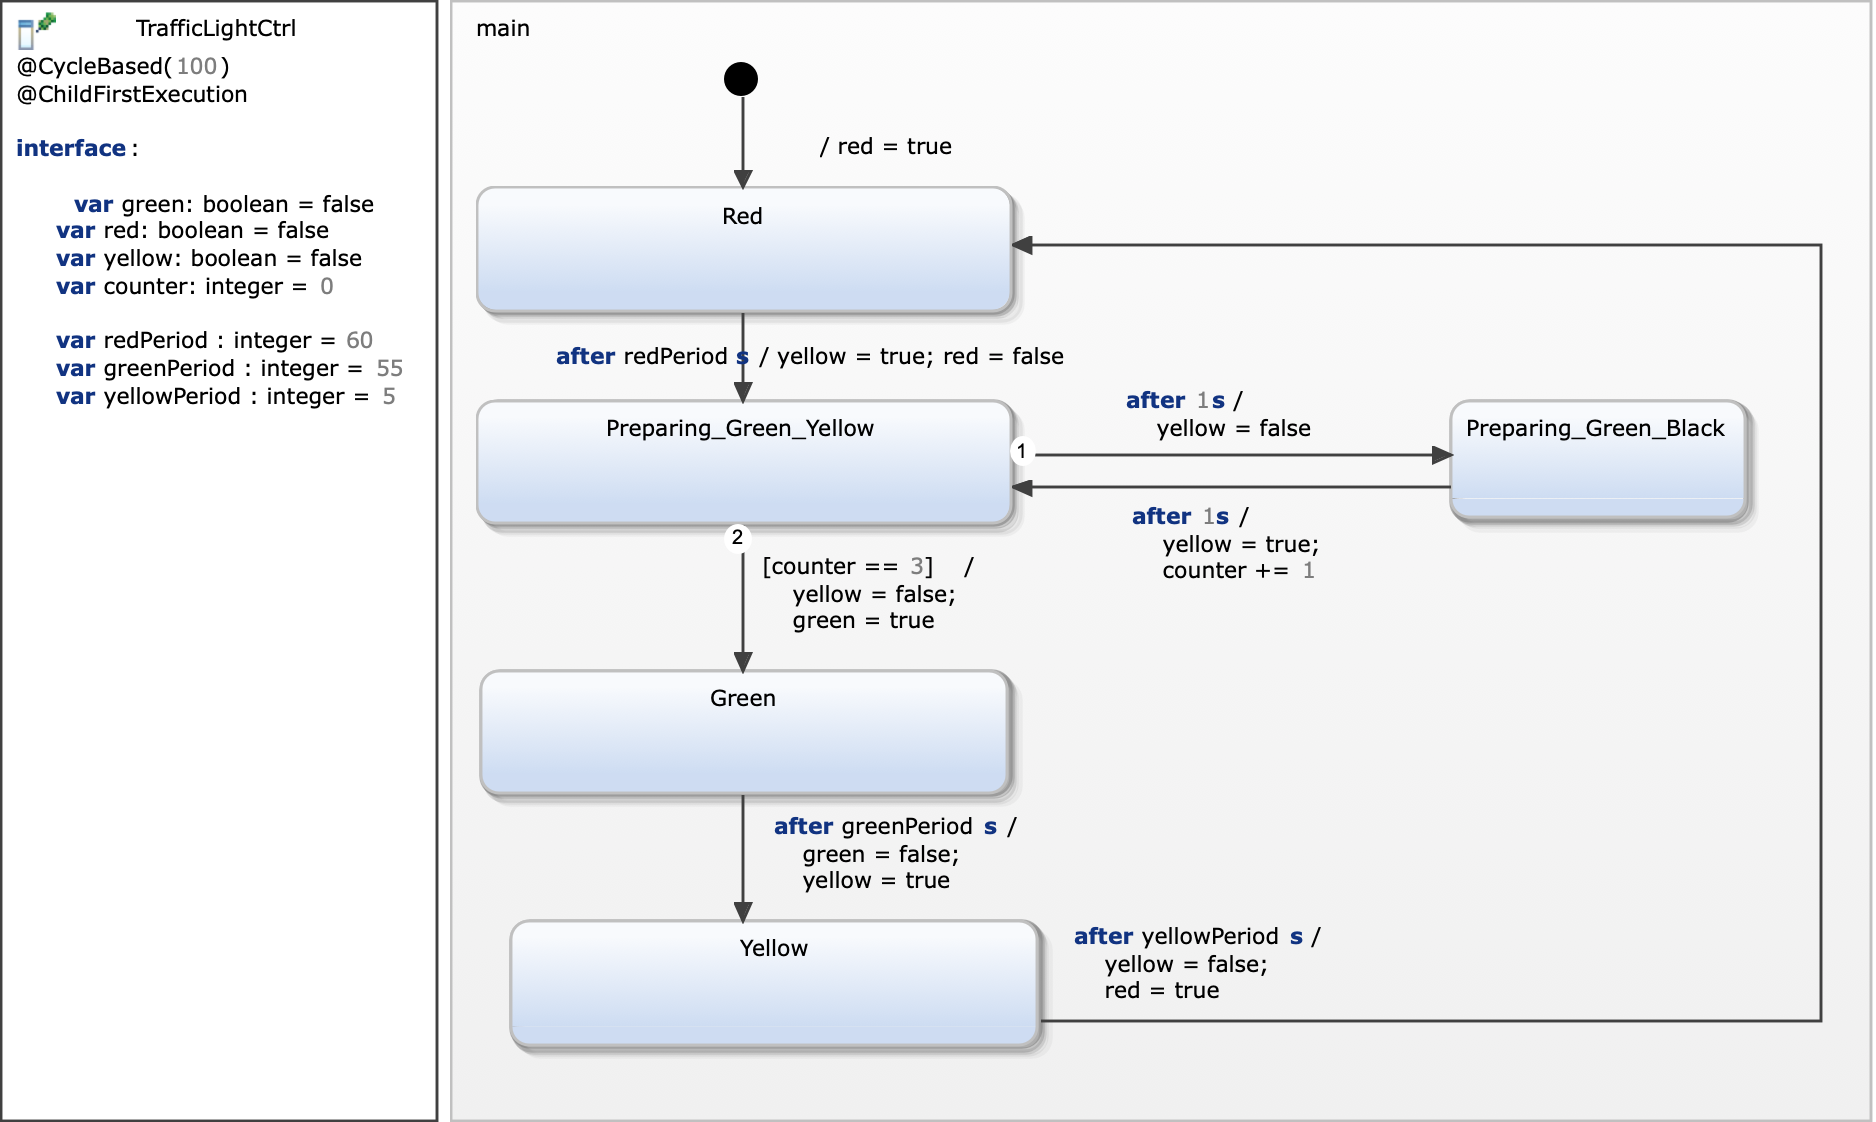
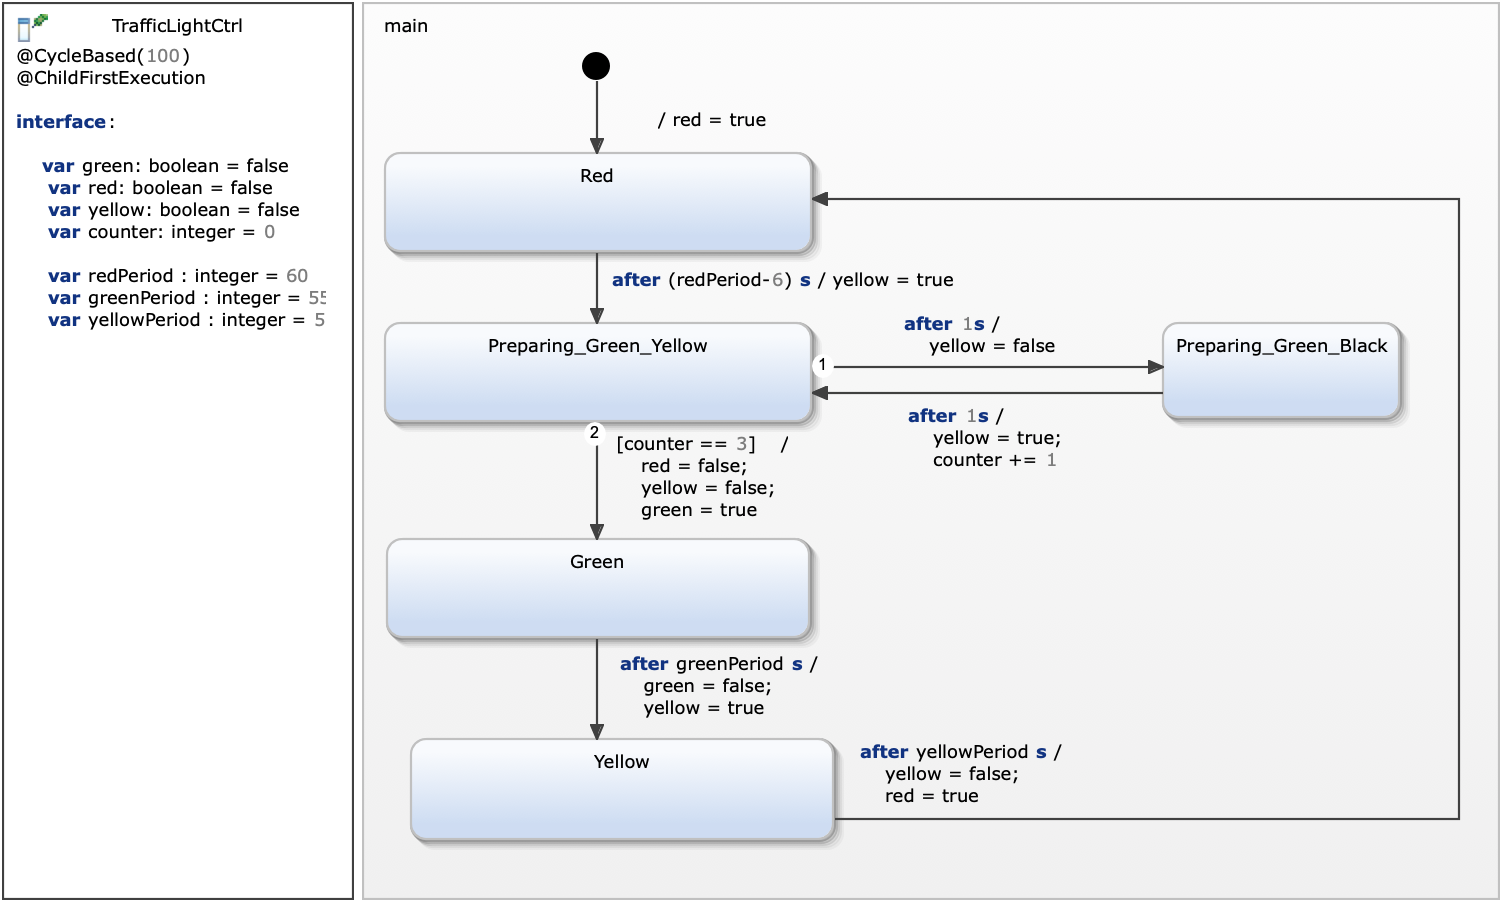
exercise 2 instructions and discussion

diff --git a/exercise-projects/02_traffic_light_data_store_solution/README.html b/exercise-projects/02_traffic_light_data_store_solution/README.html
@@ -20,8 +20,10 @@
 
   <div class="body-container__">
 
-    <h2>How does the model covers the requirements?</h2>
+    <h2>How does the model cover the requirements?</h2>
 
+    <p>First the model only defines variables. The different light colors is represented by boolean variables.</p>    
+  
     <div class="table-responsive">
       <table class="table-hover table-bordered">
         <tr>
@@ -29,28 +31,18 @@
           <th>modelling approach</th>
         </tr>
         <tr>
-          <td>R1: three differently coloured lights: red (R), green (G), yellow (Y)</td>
-          <td>For each color a state is defined. Transitions that lead to a state raise the proper out event
-            which interacts with the plant.
+          <td>R6: In the last 6 seconds of red being on, the light prepares to go to green 
+              by blinking its yellow light (1s on, 1s off) in addition to its red light being on.</td>
+          <td>There are two additional states for the preparation phase which are used to define yellow blinking by toggeling the states 
+            cyclicly.
           </td>
         </tr>
         <tr>
-          <td>R2: at most one light is on at any point in time</td>
-          <td>The states are all contained in a single region and thus a exclusive to each other.</td>
+          <td>R7: The time period of the different phases should be configurable.</td>
+          <td>Variables <i>greenPeriod</i>, <i>redPeriod</i>, and <i>yellowPeriod</i> are defined. These variables are used within the 
+          <i>after</i> trigger specification.</td>
         </tr>
-        <tr>
-          <td>R3: at system start-up, the red light is on</td>
-          <td>The entry node points to state <i>Red</i> and the entry transition raises the event <i>displayRed</i>.</td>
-        </tr>
-        <tr>
-          <td>R4: cycles through red on, green on, and yellow on</td>
-          <td>The transitions define this cycle.</td>
-        </tr>
-        <tr>
-          <td>R5: red is on for 60s, green is on for 55s, yellow is on for 5s</td>
-          <td>Time events are specified on the transitions.</td>
-        </tr>
-      </table>
+       </table>
     </div>
     </p>
 

diff --git a/exercise-projects/02_traffic_light_data_store/README.html b/exercise-projects/02_traffic_light_data_store/README.html
@@ -23,16 +23,22 @@
 
     <h1>Read Requirements</h1>
     <p>
-      The traffic light statechart must implement the follwoing requirements:
-    </p>
-    <ul>
-      <li>R1: three differently coloured lights: red (R), green (G), yellow (Y)</li>
-      <li>R2: at most one light is on at any point in time</li>
-      <li>R3: at system start-up, the red light is on</li>
-      <li>R4: cycles through red on, green on, and yellow on</li>
-      <li>R5: red is on for 60s, green is on for 55s, yellow is on for 5s</li>
-    </ul>
-
+        The traffic light statechart must implement the follwoing additional requirements:
+      </p>
+      <ul>
+        <li>R6: In the last 6 seconds of red being on, the light prepares to go to green 
+          by blinking its yellow light (1s on, 1s off) in addition to its red light being on.</li>
+        <li>R7: The time period of the different phases should be configurable.</li>
+      </ul>
+      
+      <p>
+          Additionally follow these modellig contraint:
+        </p>
+        <ul>
+          <li>Do not use out events. The statechart transition and actions should only be based on time events and variables.</li>
+        </ul>
+        
+      
     <h1>Extend the statechart</h1>
       <p>
         You have to extend the prepared statechart using the YAKINDU statechart editor.
